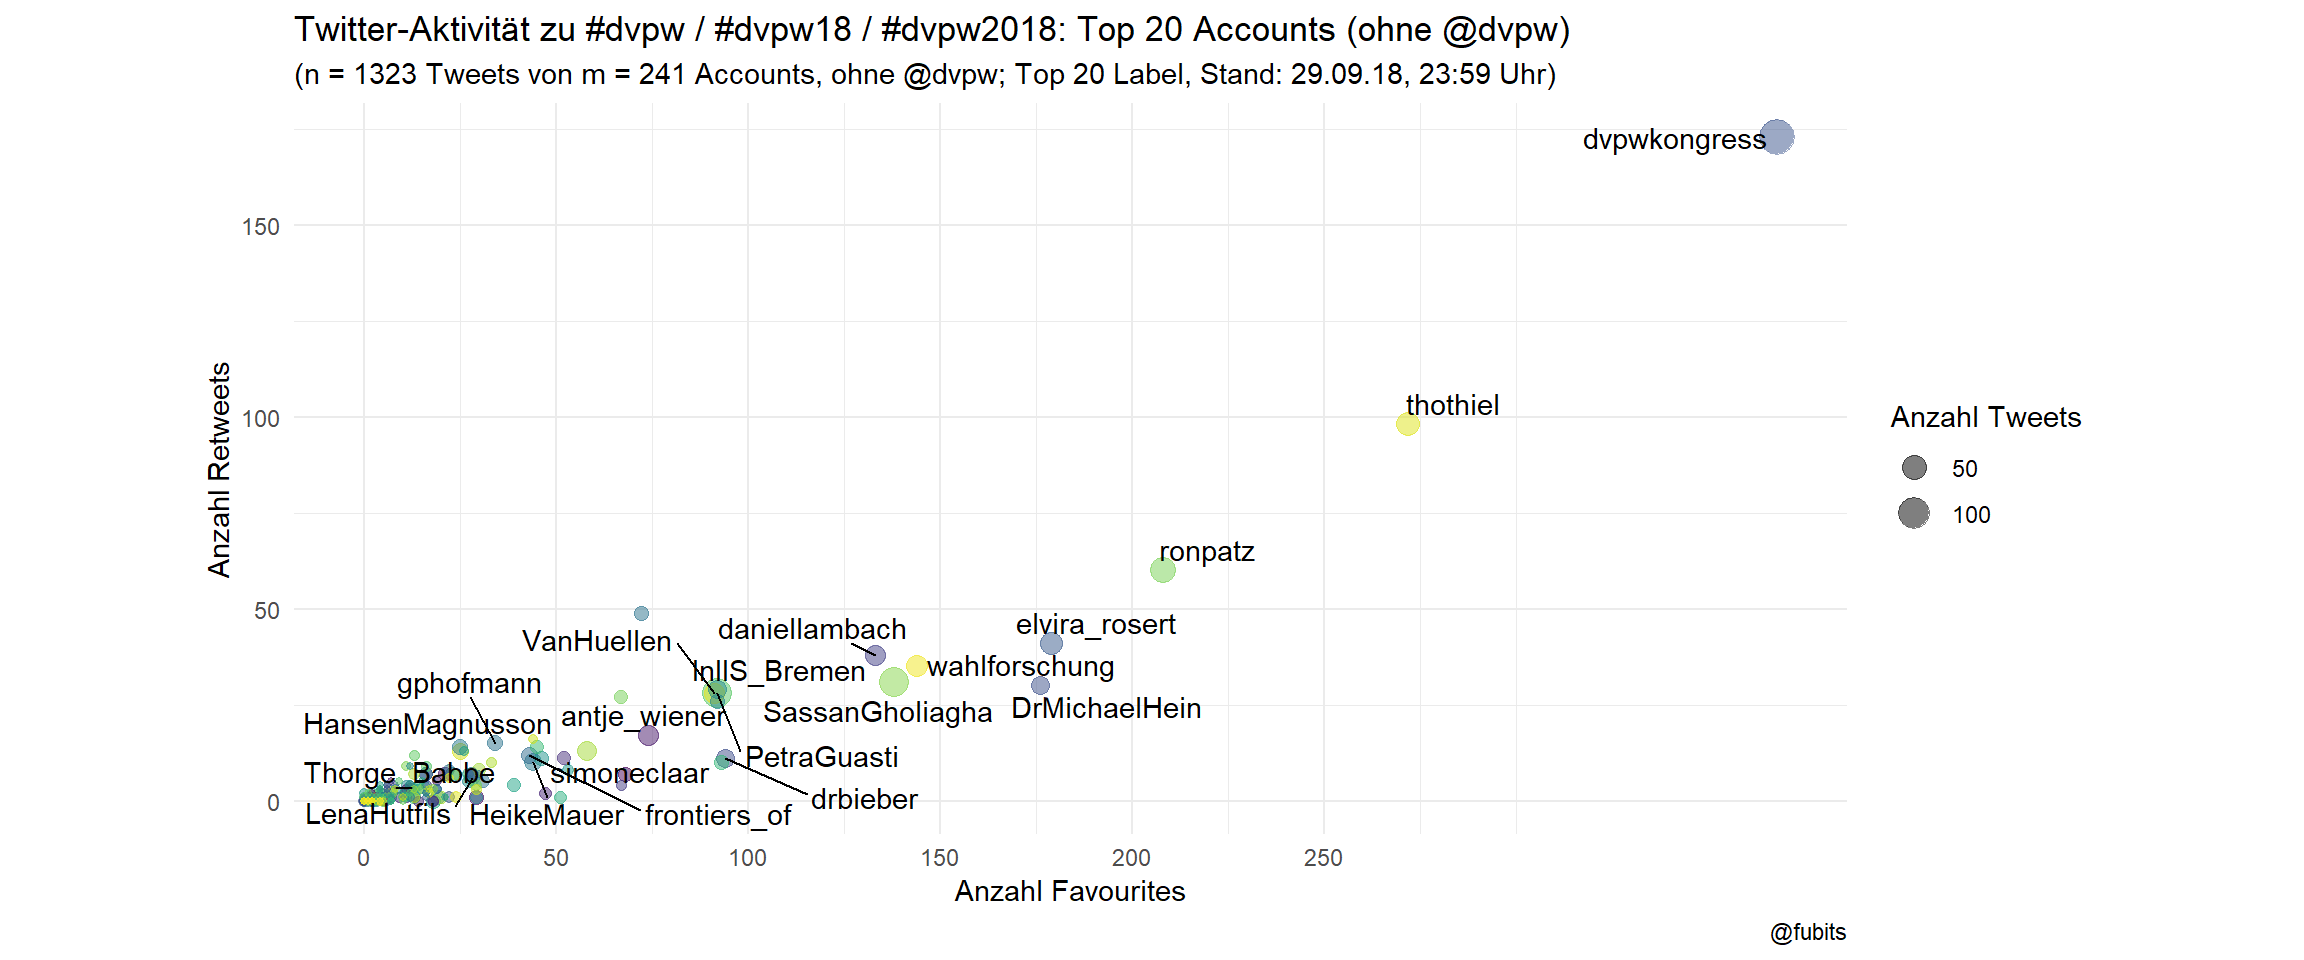
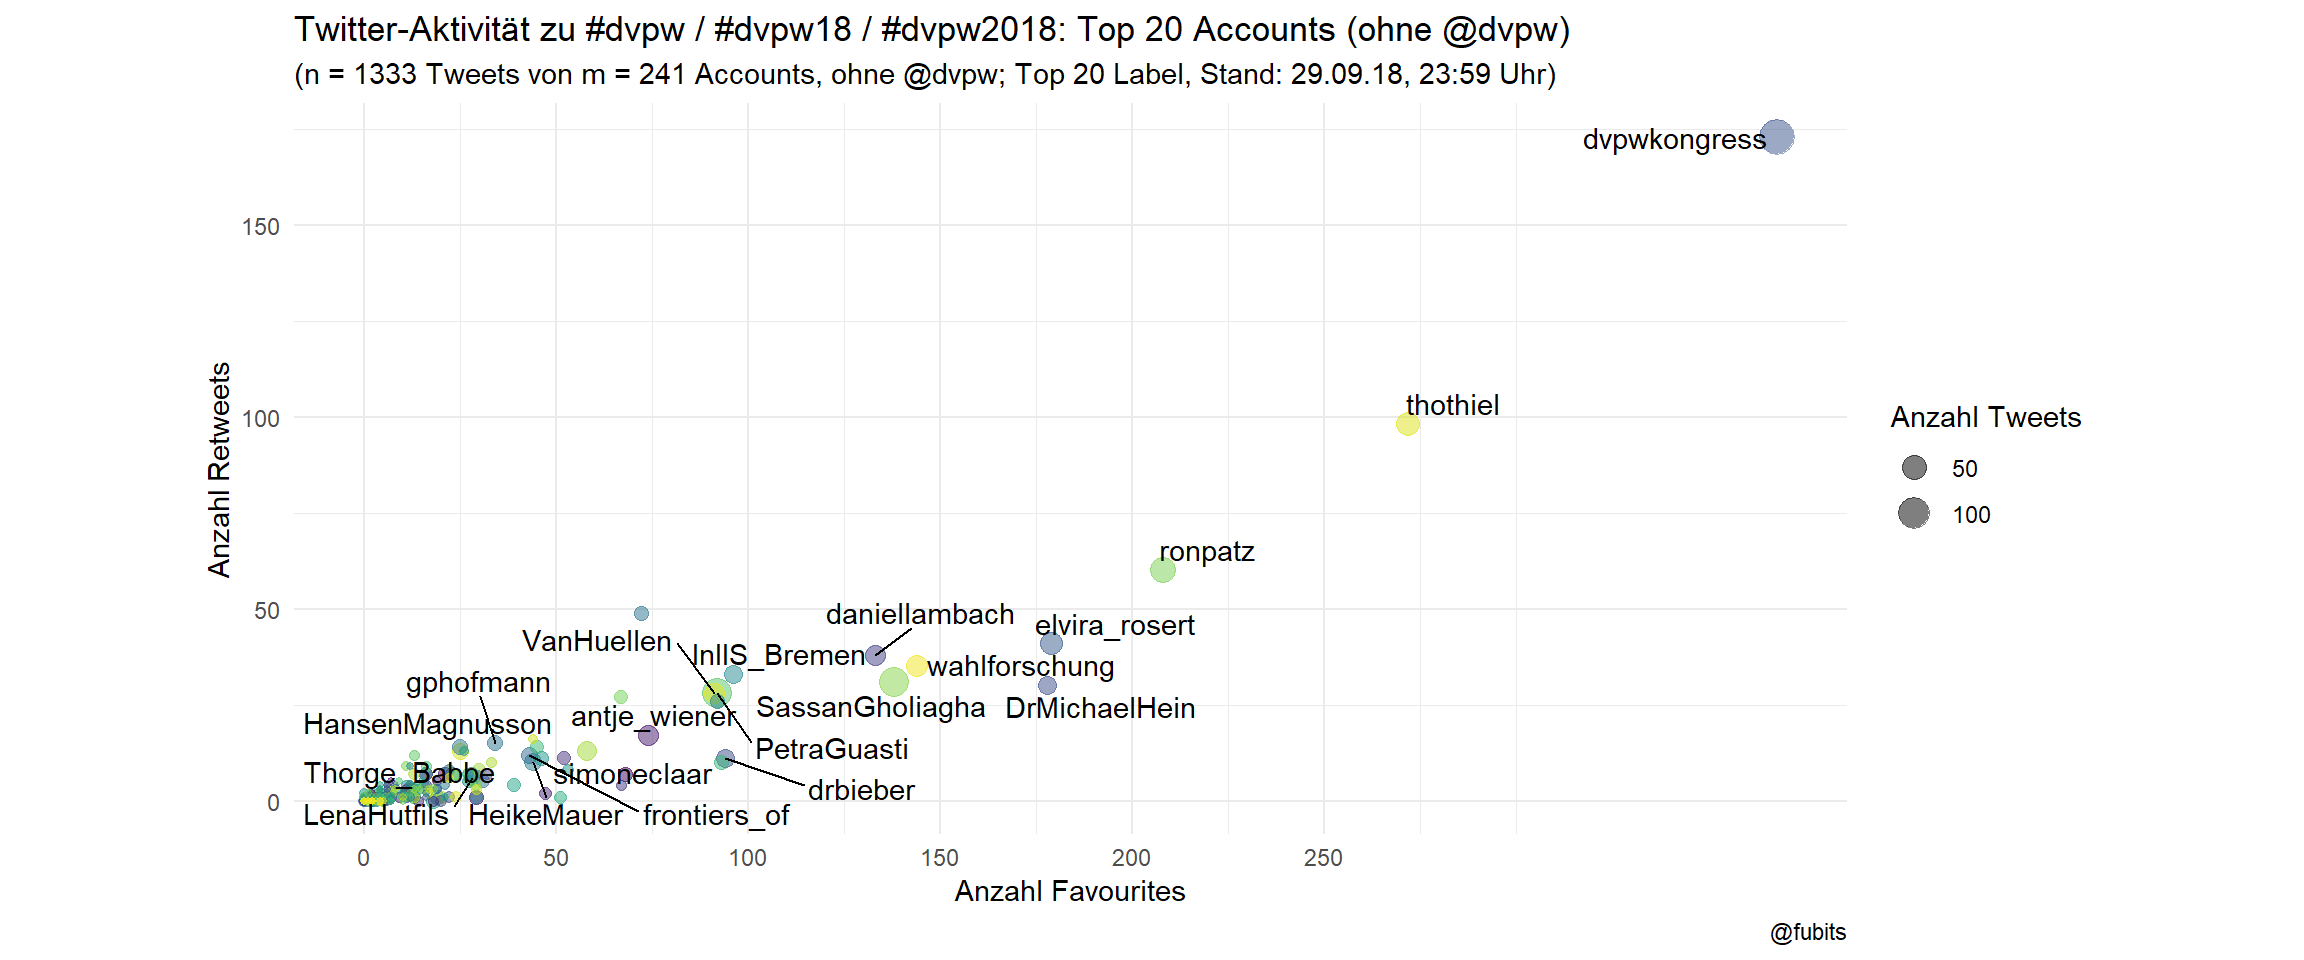
Twitter Post: removed caching

Changed region(s): [[0.125, 0.625, 0.5312, 0.875], [0.1562, 0.6875, 0.25, 0.75]]

diff --git a/content/post/2018-09-28-r-academic-conference-twitter-pt-1-mining-dvpw18-dgs18-hist18-et-al.html b/content/post/2018-09-28-r-academic-conference-twitter-pt-1-mining-dvpw18-dgs18-hist18-et-al.html
@@ -127,7 +127,7 @@ twitter_token &lt;- readRDS(str_c(home_directory,&quot;/twitter_token.rds&quot;)
     unlist() %&gt;% glue::glue_collapse()
   }
 getTimeString()</code></pre>
-<pre><code>## 20180930195545</code></pre>
+<pre><code>## 20180930201122</code></pre>
 </div>
 <div id="prepare-filepath-for-.rds-with-here" class="section level2">
 <h2><span class="header-section-number">1.3</span> (Prepare filepath for .rds with <code>here()</code>)</h2>
@@ -239,7 +239,7 @@ dvpw_collection %&gt;%
 <p><img src="/post/2018-09-28-r-academic-conference-twitter-pt-1-mining-dvpw18-dgs18-hist18-et-al_files/figure-html/unnamed-chunk-14-1.png" width="1152" /></p>
 <p>The official society accounts have been quite busy! Well done, <a href="https://twitter.com/dvpwkongress/status/1040501085067247616" target="_blank">@dvpw/@dvpwkongress</a>, the idea of a Twitter <code>#TeamTakeOver</code> worked out rather well! &lt;- <strong>Note to my future self.</strong>)</p>
 <blockquote>
-<p>To be precise, the collective action of <code>@dvpw</code> has produced n = 368 individual Tweets!</p>
+<p>To be precise, the collective action of <code>@dvpw</code> has produced n = 461 individual Tweets!</p>
 </blockquote>
 </div>
 <div id="scatterplot-without-dvpw-and-with-labels-for-the-top-20" class="section level3">
@@ -653,7 +653,7 @@ gfm_collection %&gt;%
 <pre class="r"><code>all_cons &lt;- bind_rows(dvpw_collection, dgs_collection, hist_collection, inf_collection, gfm_collection)
 all_n_accounts &lt;- all_cons %&gt;% distinct(screen_name) %&gt;% nrow()
 all_n_tweets &lt;- all_cons %&gt;% distinct(status_id) %&gt;% nrow()</code></pre>
-<p>So, this week, 1320 German academic Twitter accounts have been active at four conferences in total, producing 4943 individual Tweets. Actually, that’s quite impressive!</p>
+<p>So, this week, 1320 German academic Twitter accounts have been active at <del>four</del> five conferences in total, producing 4943 individual Tweets. Actually, that’s quite impressive!</p>
 <p>Now we can bind the aggregated *_counts.</p>
 <pre class="r"><code>all_cons_per_user &lt;- bind_rows(dvpw_counts, dgs_counts, hist_counts, inf_counts, gfm_counts) %&gt;%
   group_by(screen_name) %&gt;% 
@@ -666,7 +666,7 @@ all_cons_per_user %&gt;% head(20)</code></pre>
 ## # Groups:   screen_name [20]
 ##    screen_name     Tweets    RT  Favs discipline avg_output
 ##    &lt;chr&gt;            &lt;int&gt; &lt;int&gt; &lt;int&gt; &lt;chr&gt;           &lt;dbl&gt;
-##  1 dvpw               368   423   522 PolSci          438. 
+##  1 dvpw               461   511   613 PolSci          528. 
 ##  2 dvpwkongress       135   173   368 PolSci          225. 
 ##  3 thothiel            44    98   272 PolSci          138  
 ##  4 digigw              34   121   225 History         127. 
@@ -679,9 +679,9 @@ all_cons_per_user %&gt;% head(20)</code></pre>
 ## 11 SassanGholiagha     86    31   138 PolSci           85  
 ## 12 janinefunke         12    29   213 History          84.7
 ## 13 LordElend           26    32   184 Sociology        80.7
-## 14 jakobfrohmann       41    60   129 History          76.7
-## 15 juergenzimmerer      7    51   171 History          76.3
-## 16 DrMichaelHein       21    30   176 PolSci           75.7
+## 14 DrMichaelHein       22    30   178 PolSci           76.7
+## 15 jakobfrohmann       41    60   129 History          76.7
+## 16 juergenzimmerer      7    51   171 History          76.3
 ## 17 RichterHedwig        7     8   203 History          72.7
 ## 18 wahlforschung       35    35   144 PolSci           71.3
 ## 19 PetraGuasti         84    28    92 PolSci           68  
@@ -747,9 +747,9 @@ dvpw_box %&gt;% filter(screen_name == &quot;dvpw&quot;)</code></pre>
 <pre><code>## # A tibble: 3 x 4
 ##   screen_name discipline Metric Total
 ##   &lt;chr&gt;       &lt;chr&gt;      &lt;chr&gt;  &lt;int&gt;
-## 1 dvpw        PolSci     Tweets   368
-## 2 dvpw        PolSci     RT       423
-## 3 dvpw        PolSci     Favs     522</code></pre>
+## 1 dvpw        PolSci     Tweets   461
+## 2 dvpw        PolSci     RT       511
+## 3 dvpw        PolSci     Favs     613</code></pre>
 <pre class="r"><code>dgs_box &lt;- dgs_counts %&gt;% 
   gather(&quot;Metric&quot;, &quot;Total&quot;, 2:4) # %&gt;%
   # mutate(Discipline = &quot;Socio&quot;)
@@ -788,7 +788,7 @@ gfm_box &lt;- gfm_counts %&gt;%
 </div>
 <div id="final-scores-the-overall-activity-compared-by-numbers" class="section level1">
 <h1><span class="header-section-number">4</span> Final scores: The overall activity compared by numbers</h1>
-<p>What if we simply compare the five disciplines’ Twitter performance in totals?</p>
+<p>What if we simply compare the five disciplines’ Twitter performance in terms of totals?</p>
 <pre class="r"><code>bind_rows(dvpw_counts, dgs_counts, hist_counts, inf_counts, gfm_counts) %&gt;%
   group_by(discipline) %&gt;% 
   summarise(Users = n(), Tweets = sum(Tweets),
@@ -797,10 +797,10 @@ gfm_box &lt;- gfm_counts %&gt;%
 <pre><code>## # A tibble: 5 x 5
 ##   discipline   Users Tweets    RT   Fav
 ##   &lt;chr&gt;        &lt;int&gt;  &lt;int&gt; &lt;int&gt; &lt;int&gt;
-## 1 Sociology      704   1658   615  8477
+## 1 Sociology      710   1674   617  8534
 ## 2 History        302   1086  1679  6750
-## 3 PolSci         238   1691  1680  5341
-## 4 CS              97    302   397  1039
+## 3 PolSci         242   1794  1775  5460
+## 4 CS              98    320   425  1065
 ## 5 MediaStudies    43    130   157   621</code></pre>
 <p>Sociology has the highest number of active users and Favs (wow!), while PolSci has a lead with the total number of Tweets.</p>
 <p>And what if we average out Tweets+RTs+Favs per User?</p>
@@ -813,11 +813,11 @@ gfm_box &lt;- gfm_counts %&gt;%
 <pre><code>## # A tibble: 5 x 6
 ##   discipline   Users Tweets    RT   Fav avg_output
 ##   &lt;chr&gt;        &lt;int&gt;  &lt;int&gt; &lt;int&gt; &lt;int&gt;      &lt;dbl&gt;
-## 1 PolSci         238   1691  1680  5341       36.6
+## 1 PolSci         242   1794  1775  5460       37.3
 ## 2 History        302   1086  1679  6750       31.5
 ## 3 MediaStudies    43    130   157   621       21.1
-## 4 CS              97    302   397  1039       17.9
-## 5 Sociology      704   1658   615  8477       15.3</code></pre>
+## 4 CS              98    320   425  1065       18.5
+## 5 Sociology      710   1674   617  8534       15.2</code></pre>
 <p>Here, the PolSci crowd has been the busiest (and Sociology was rather lazy ;). But…</p>
 <p>... let’s have look without the <code>#TeamTakeOver</code> coup by <code>@dvpw</code>:</p>
 <pre class="r"><code>bind_rows(dvpw_counts, dgs_counts, hist_counts, inf_counts, gfm_counts) %&gt;%
@@ -831,10 +831,10 @@ gfm_box &lt;- gfm_counts %&gt;%
 ##   discipline   Users Tweets    RT   Fav avg_output
 ##   &lt;chr&gt;        &lt;int&gt;  &lt;int&gt; &lt;int&gt; &lt;int&gt;      &lt;dbl&gt;
 ## 1 History        302   1086  1679  6750       31.5
-## 2 PolSci         237   1323  1257  4819       31.2
+## 2 PolSci         241   1333  1264  4847       30.9
 ## 3 MediaStudies    43    130   157   621       21.1
-## 4 CS              97    302   397  1039       17.9
-## 5 Sociology      704   1658   615  8477       15.3</code></pre>
+## 4 CS              98    320   425  1065       18.5
+## 5 Sociology      710   1674   617  8534       15.2</code></pre>
 <p>Well done, Historians! If we ignore <span class="citation">@dvpw</span>’s Twitter takeover, you actually performed best (in terms of numbers, at least)!</p>
 <blockquote>
 <p>I guess it is fair to conclude that a well organised Twitter takeover by conference participants can have quite an effect on the visibility of a conference.</p>
